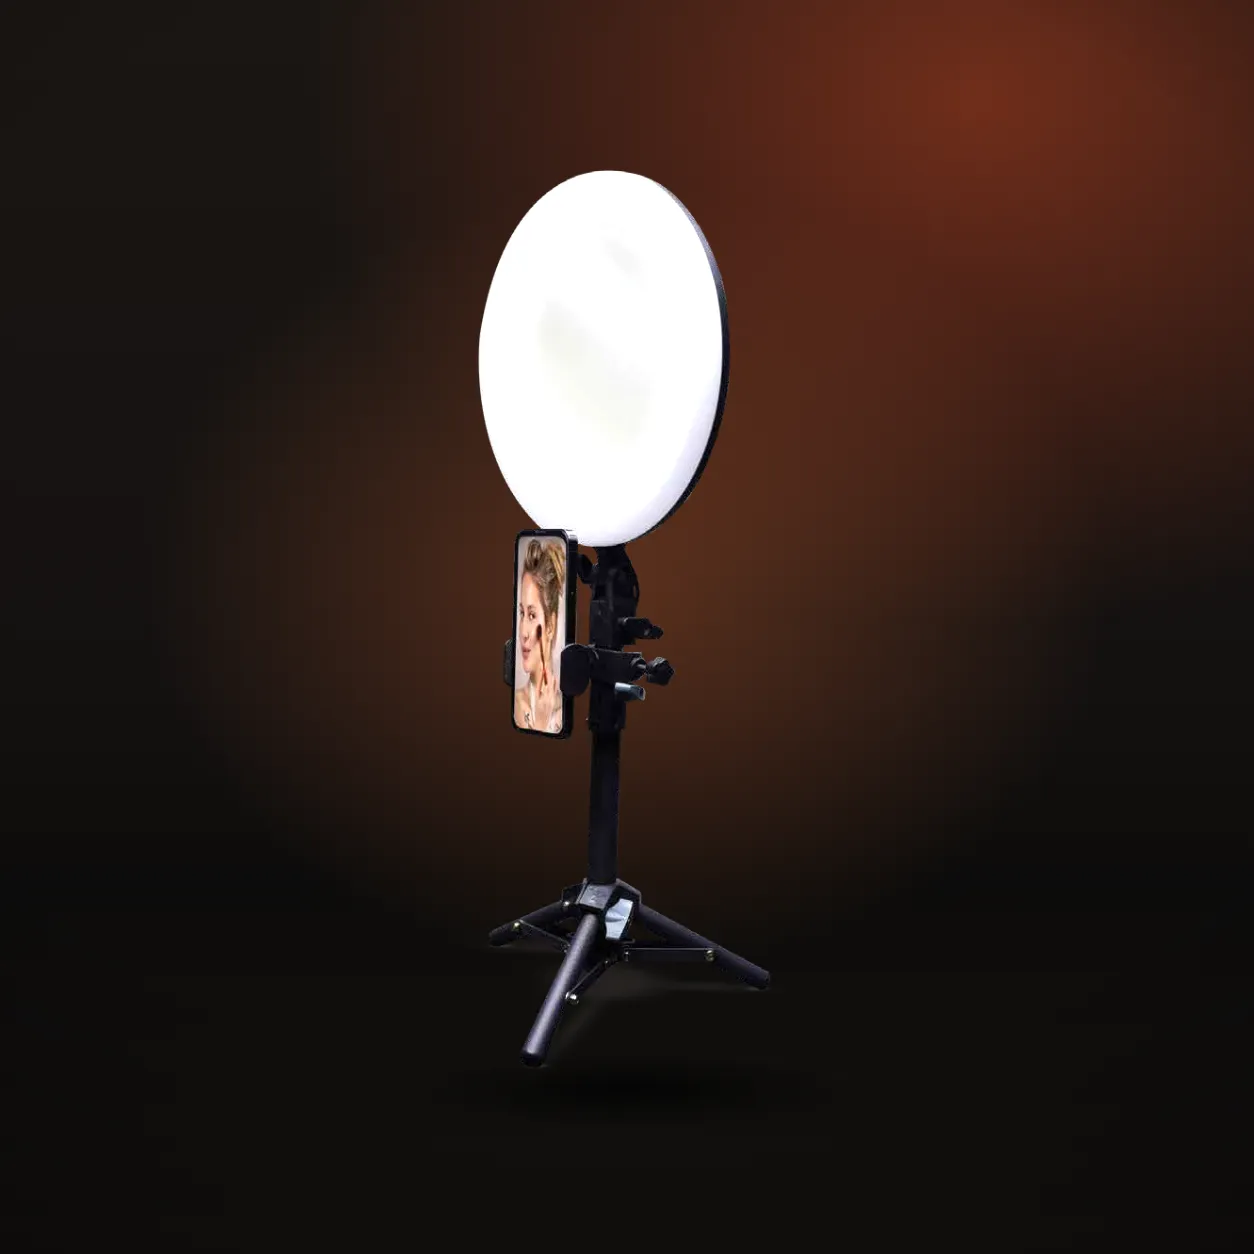
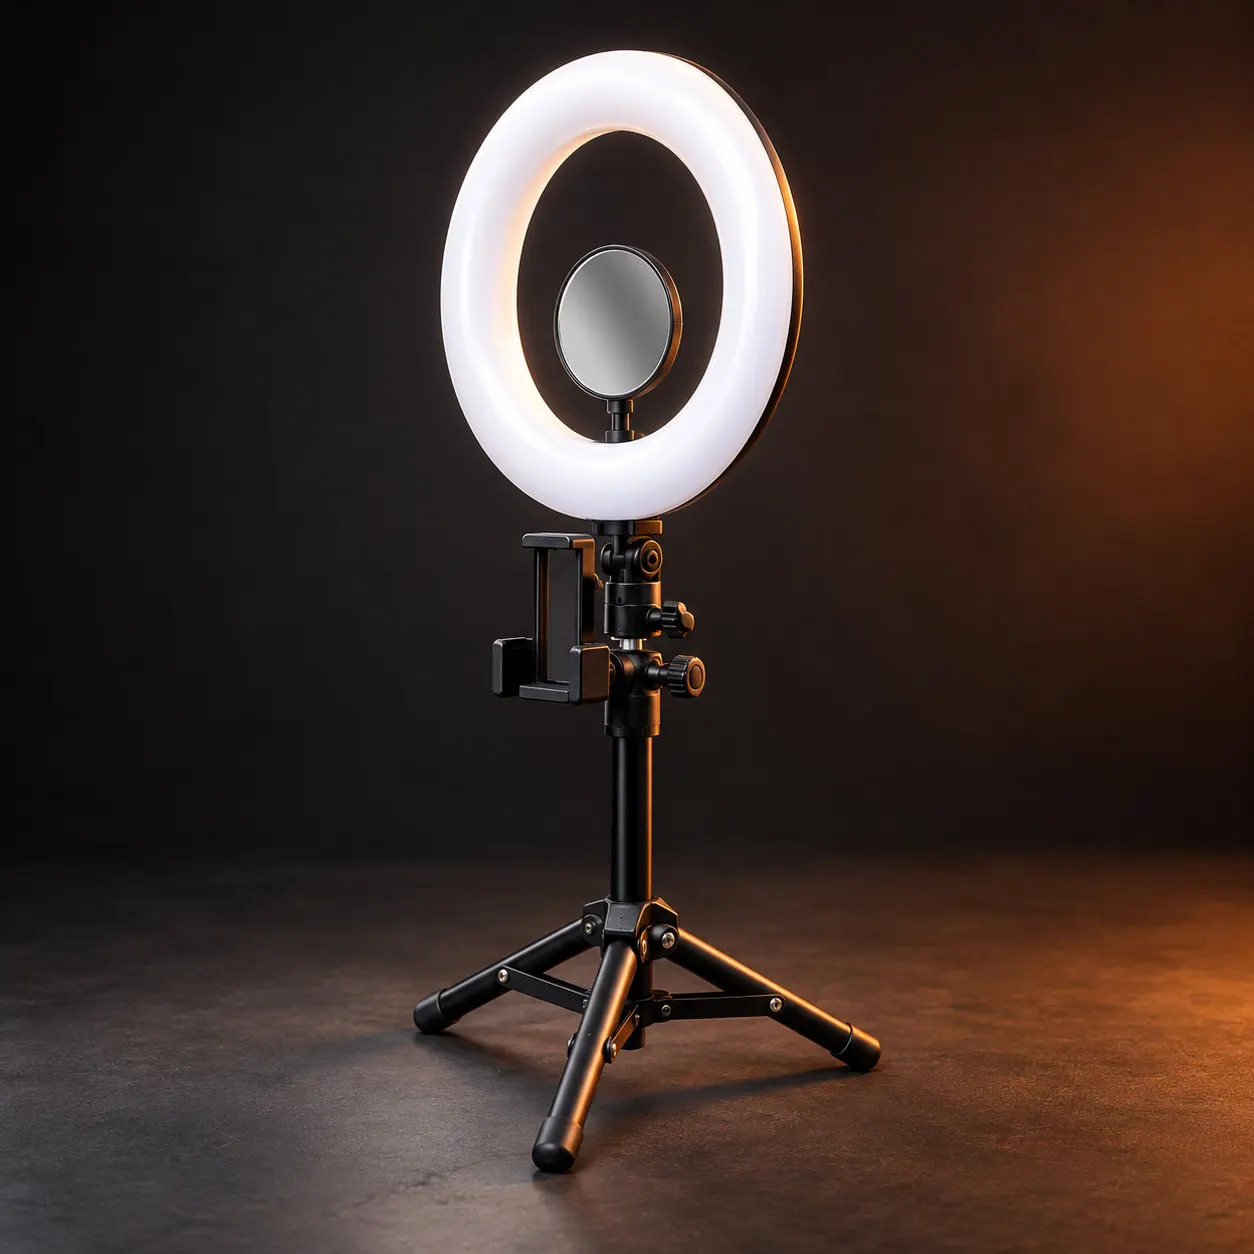
Fotos de rubros nuevas: serie oscura para mayorista y durazno para minorista
Las diez categorías usan la misma serie de producto con la estética de cada sección. Minorista toma archivos propios (cat-*) para no pisar las fotos de Instagram y de las fichas; Celulares pasa a 1254 × 1254 como el resto.

diff --git a/minorista.html b/minorista.html
@@ -59,16 +59,16 @@
 
     <section class="m-cats" id="categorias" aria-label="Categorías">
       <div class="m-cat-grid" data-stagger>
-        <a class="m-cat reveal" href="https://ig.me/m/htgaccesorios" data-rubro="cargadores"><img src="assets/minorista/cargadores.webp" srcset="assets/minorista/cargadores-600.webp 600w, assets/minorista/cargadores.webp 1200w" sizes="(max-width:700px) 46vw, 19vw" alt="" width="1200" height="1200"><span class="m-cat-label">Cables<br>y cargadores <b class="m-circle" aria-hidden="true">→</b></span></a>
-        <a class="m-cat reveal" href="https://ig.me/m/htgaccesorios" data-rubro="audio"><img src="assets/minorista/auriculares.webp" srcset="assets/minorista/auriculares-600.webp 600w, assets/minorista/auriculares.webp 1200w" sizes="(max-width:700px) 46vw, 19vw" alt="" width="1200" height="1200"><span class="m-cat-label">Audio <b class="m-circle" aria-hidden="true">→</b></span></a>
-        <a class="m-cat reveal" href="https://ig.me/m/htgaccesorios" data-rubro="fundas"><img src="assets/minorista/estanterias-fundas.webp" srcset="assets/minorista/estanterias-fundas-600.webp 600w, assets/minorista/estanterias-fundas.webp 1200w" sizes="(max-width:700px) 46vw, 19vw" alt="" width="1200" height="1200"><span class="m-cat-label">Fundas <b class="m-circle" aria-hidden="true">→</b></span></a>
-        <a class="m-cat reveal" href="https://ig.me/m/htgaccesorios" data-rubro="pantalla"><img src="assets/minorista/pantalla.webp" srcset="assets/minorista/pantalla-600.webp 600w, assets/minorista/pantalla.webp 1200w" sizes="(max-width:700px) 46vw, 19vw" alt="" width="1200" height="1200"><span class="m-cat-label">Protección<br>de pantalla <b class="m-circle" aria-hidden="true">→</b></span></a>
-        <a class="m-cat reveal" href="https://ig.me/m/htgaccesorios" data-rubro="soportes"><img src="assets/minorista/soportes.webp" srcset="assets/minorista/soportes-600.webp 600w, assets/minorista/soportes.webp 1200w" sizes="(max-width:700px) 46vw, 19vw" alt="" width="1200" height="1200"><span class="m-cat-label">Soportes <b class="m-circle" aria-hidden="true">→</b></span></a>
-        <a class="m-cat reveal" href="https://ig.me/m/htgaccesorios" data-rubro="creadores"><img src="assets/minorista/creadores.webp" srcset="assets/minorista/creadores-600.webp 600w, assets/minorista/creadores.webp 1200w" sizes="(max-width:700px) 46vw, 19vw" alt="" width="1200" height="1200"><span class="m-cat-label">Creadores<br>de contenido <b class="m-circle" aria-hidden="true">→</b></span></a>
-        <a class="m-cat reveal" href="https://ig.me/m/htgaccesorios" data-rubro="gaming"><img src="assets/minorista/gaming-joystick.webp" srcset="assets/minorista/gaming-joystick-600.webp 600w, assets/minorista/gaming-joystick.webp 1200w" sizes="(max-width:700px) 46vw, 19vw" alt="" width="1200" height="1200"><span class="m-cat-label">Gaming <b class="m-circle" aria-hidden="true">→</b></span></a>
-        <a class="m-cat reveal" href="https://ig.me/m/htgaccesorios" data-rubro="oficina"><img src="assets/minorista/oficina.webp" srcset="assets/minorista/oficina-600.webp 600w, assets/minorista/oficina.webp 1200w" sizes="(max-width:700px) 46vw, 19vw" alt="" width="1200" height="1200"><span class="m-cat-label">Computación<br>y oficina <b class="m-circle" aria-hidden="true">→</b></span></a>
-        <a class="m-cat reveal" href="https://ig.me/m/htgaccesorios" data-rubro="smartwatch"><img src="assets/minorista/smartwatch.webp" srcset="assets/minorista/smartwatch-600.webp 600w, assets/minorista/smartwatch.webp 1200w" sizes="(max-width:700px) 46vw, 19vw" alt="" width="1200" height="1200"><span class="m-cat-label">Smartwatch<br>y wearables <b class="m-circle" aria-hidden="true">→</b></span></a>
-        <a class="m-cat reveal" href="https://ig.me/m/htgaccesorios" data-rubro="celulares"><img src="assets/minorista/fundas-en-mano.webp" srcset="assets/minorista/fundas-en-mano-600.webp 600w, assets/minorista/fundas-en-mano.webp 1200w" sizes="(max-width:700px) 46vw, 19vw" alt="" width="1200" height="1200"><span class="m-cat-label">Celulares<br>y tablets <b class="m-circle" aria-hidden="true">→</b></span></a>
+        <a class="m-cat reveal" href="https://ig.me/m/htgaccesorios" data-rubro="cargadores"><img src="assets/minorista/cat-cargadores.webp" srcset="assets/minorista/cat-cargadores-600.webp 600w, assets/minorista/cat-cargadores.webp 1200w" sizes="(max-width:700px) 46vw, 19vw" alt="" width="1200" height="1200"><span class="m-cat-label">Cables<br>y cargadores <b class="m-circle" aria-hidden="true">→</b></span></a>
+        <a class="m-cat reveal" href="https://ig.me/m/htgaccesorios" data-rubro="audio"><img src="assets/minorista/cat-audio.webp" srcset="assets/minorista/cat-audio-600.webp 600w, assets/minorista/cat-audio.webp 1200w" sizes="(max-width:700px) 46vw, 19vw" alt="" width="1200" height="1200"><span class="m-cat-label">Audio <b class="m-circle" aria-hidden="true">→</b></span></a>
+        <a class="m-cat reveal" href="https://ig.me/m/htgaccesorios" data-rubro="fundas"><img src="assets/minorista/cat-fundas.webp" srcset="assets/minorista/cat-fundas-600.webp 600w, assets/minorista/cat-fundas.webp 1200w" sizes="(max-width:700px) 46vw, 19vw" alt="" width="1200" height="1200"><span class="m-cat-label">Fundas <b class="m-circle" aria-hidden="true">→</b></span></a>
+        <a class="m-cat reveal" href="https://ig.me/m/htgaccesorios" data-rubro="pantalla"><img src="assets/minorista/cat-pantalla.webp" srcset="assets/minorista/cat-pantalla-600.webp 600w, assets/minorista/cat-pantalla.webp 1200w" sizes="(max-width:700px) 46vw, 19vw" alt="" width="1200" height="1200"><span class="m-cat-label">Protección<br>de pantalla <b class="m-circle" aria-hidden="true">→</b></span></a>
+        <a class="m-cat reveal" href="https://ig.me/m/htgaccesorios" data-rubro="soportes"><img src="assets/minorista/cat-soportes.webp" srcset="assets/minorista/cat-soportes-600.webp 600w, assets/minorista/cat-soportes.webp 1200w" sizes="(max-width:700px) 46vw, 19vw" alt="" width="1200" height="1200"><span class="m-cat-label">Soportes <b class="m-circle" aria-hidden="true">→</b></span></a>
+        <a class="m-cat reveal" href="https://ig.me/m/htgaccesorios" data-rubro="creadores"><img src="assets/minorista/cat-creadores.webp" srcset="assets/minorista/cat-creadores-600.webp 600w, assets/minorista/cat-creadores.webp 1200w" sizes="(max-width:700px) 46vw, 19vw" alt="" width="1200" height="1200"><span class="m-cat-label">Creadores<br>de contenido <b class="m-circle" aria-hidden="true">→</b></span></a>
+        <a class="m-cat reveal" href="https://ig.me/m/htgaccesorios" data-rubro="gaming"><img src="assets/minorista/cat-gaming.webp" srcset="assets/minorista/cat-gaming-600.webp 600w, assets/minorista/cat-gaming.webp 1200w" sizes="(max-width:700px) 46vw, 19vw" alt="" width="1200" height="1200"><span class="m-cat-label">Gaming <b class="m-circle" aria-hidden="true">→</b></span></a>
+        <a class="m-cat reveal" href="https://ig.me/m/htgaccesorios" data-rubro="oficina"><img src="assets/minorista/cat-oficina.webp" srcset="assets/minorista/cat-oficina-600.webp 600w, assets/minorista/cat-oficina.webp 1200w" sizes="(max-width:700px) 46vw, 19vw" alt="" width="1200" height="1200"><span class="m-cat-label">Computación<br>y oficina <b class="m-circle" aria-hidden="true">→</b></span></a>
+        <a class="m-cat reveal" href="https://ig.me/m/htgaccesorios" data-rubro="smartwatch"><img src="assets/minorista/cat-smartwatch.webp" srcset="assets/minorista/cat-smartwatch-600.webp 600w, assets/minorista/cat-smartwatch.webp 1200w" sizes="(max-width:700px) 46vw, 19vw" alt="" width="1200" height="1200"><span class="m-cat-label">Smartwatch<br>y wearables <b class="m-circle" aria-hidden="true">→</b></span></a>
+        <a class="m-cat reveal" href="https://ig.me/m/htgaccesorios" data-rubro="celulares"><img src="assets/minorista/cat-celulares.webp" srcset="assets/minorista/cat-celulares-600.webp 600w, assets/minorista/cat-celulares.webp 1200w" sizes="(max-width:700px) 46vw, 19vw" alt="" width="1200" height="1200"><span class="m-cat-label">Celulares<br>y tablets <b class="m-circle" aria-hidden="true">→</b></span></a>
       </div>
     </section>
 

diff --git a/index.html b/index.html
@@ -44,16 +44,16 @@
     <section class="categories-section" id="categorias" aria-labelledby="cat-title"><div class="container">
       <div class="section-heading"><h2 id="cat-title">CATEGORÍAS<br>PRINCIPALES</h2><a href="catalogo.html">Ver todas las categorías <span aria-hidden="true">→</span></a></div>
       <div class="categories-grid" data-stagger>
-        <a class="category reveal" href="catalogo.html?categoria=cargadores"><img src="assets/categoria-cargadores.webp" srcset="assets/categoria-cargadores-600.webp 600w, assets/categoria-cargadores.webp 1254w" sizes="(max-width:700px) 46vw, 19vw" alt="Cargador blanco y cable negro trenzado" width="1254" height="1254"><span>Cables<br>y cargadores <b aria-hidden="true">→</b></span></a>
-        <a class="category reveal" href="catalogo.html?categoria=audio"><img src="assets/categoria-audio.webp" srcset="assets/categoria-audio-600.webp 600w, assets/categoria-audio.webp 1254w" sizes="(max-width:700px) 46vw, 19vw" alt="Auriculares negros SOUL" width="1254" height="1254"><span>Audio <b aria-hidden="true">→</b></span></a>
-        <a class="category reveal" href="catalogo.html?categoria=fundas"><img src="assets/categoria-fundas.webp" srcset="assets/categoria-fundas-600.webp 600w, assets/categoria-fundas.webp 1254w" sizes="(max-width:700px) 46vw, 19vw" alt="Fundas para teléfonos exhibidas en el local" width="1254" height="1254"><span>Fundas <b aria-hidden="true">→</b></span></a>
-        <a class="category reveal" href="catalogo.html?categoria=pantalla"><img src="assets/categoria-pantalla.webp" srcset="assets/categoria-pantalla-600.webp 600w, assets/categoria-pantalla.webp 1254w" sizes="(max-width:700px) 46vw, 19vw" alt="Vidrio templado sobre la pantalla de un teléfono" width="1254" height="1254"><span>Protección<br>de pantalla <b aria-hidden="true">→</b></span></a>
+        <a class="category reveal" href="catalogo.html?categoria=cargadores"><img src="assets/categoria-cargadores.webp" srcset="assets/categoria-cargadores-600.webp 600w, assets/categoria-cargadores.webp 1254w" sizes="(max-width:700px) 46vw, 19vw" alt="Cargador y cable blancos" width="1254" height="1254"><span>Cables<br>y cargadores <b aria-hidden="true">→</b></span></a>
+        <a class="category reveal" href="catalogo.html?categoria=audio"><img src="assets/categoria-audio.webp" srcset="assets/categoria-audio-600.webp 600w, assets/categoria-audio.webp 1254w" sizes="(max-width:700px) 46vw, 19vw" alt="Auriculares vincha negros" width="1254" height="1254"><span>Audio <b aria-hidden="true">→</b></span></a>
+        <a class="category reveal" href="catalogo.html?categoria=fundas"><img src="assets/categoria-fundas.webp" srcset="assets/categoria-fundas-600.webp 600w, assets/categoria-fundas.webp 1254w" sizes="(max-width:700px) 46vw, 19vw" alt="Fundas de silicona y transparente" width="1254" height="1254"><span>Fundas <b aria-hidden="true">→</b></span></a>
+        <a class="category reveal" href="catalogo.html?categoria=pantalla"><img src="assets/categoria-pantalla.webp" srcset="assets/categoria-pantalla-600.webp 600w, assets/categoria-pantalla.webp 1254w" sizes="(max-width:700px) 46vw, 19vw" alt="Vidrio templado junto a un teléfono" width="1254" height="1254"><span>Protección<br>de pantalla <b aria-hidden="true">→</b></span></a>
         <a class="category reveal" href="catalogo.html?categoria=soportes"><img src="assets/categoria-soportes.webp" srcset="assets/categoria-soportes-600.webp 600w, assets/categoria-soportes.webp 1254w" sizes="(max-width:700px) 46vw, 19vw" alt="Soporte de auto con ventosa" width="1254" height="1254"><span>Soportes <b aria-hidden="true">→</b></span></a>
         <a class="category reveal" href="catalogo.html?categoria=creadores"><img src="assets/categoria-creadores.webp" srcset="assets/categoria-creadores-600.webp 600w, assets/categoria-creadores.webp 1254w" sizes="(max-width:700px) 46vw, 19vw" alt="Aro de luz con trípode y soporte para teléfono" width="1254" height="1254"><span>Creadores<br>de contenido <b aria-hidden="true">→</b></span></a>
         <a class="category reveal" href="catalogo.html?categoria=gaming"><img src="assets/categoria-gaming.webp" srcset="assets/categoria-gaming-600.webp 600w, assets/categoria-gaming.webp 1254w" sizes="(max-width:700px) 46vw, 19vw" alt="Control de videojuegos negro" width="1254" height="1254"><span>Gaming <b aria-hidden="true">→</b></span></a>
-        <a class="category reveal" href="catalogo.html?categoria=oficina"><img src="assets/categoria-oficina.webp" srcset="assets/categoria-oficina-600.webp 600w, assets/categoria-oficina.webp 1254w" sizes="(max-width:700px) 46vw, 19vw" alt="Teclado y mouse negros" width="1254" height="1254"><span>Computación<br>y oficina <b aria-hidden="true">→</b></span></a>
+        <a class="category reveal" href="catalogo.html?categoria=oficina"><img src="assets/categoria-oficina.webp" srcset="assets/categoria-oficina-600.webp 600w, assets/categoria-oficina.webp 1254w" sizes="(max-width:700px) 46vw, 19vw" alt="Teclado y mouse inalámbricos" width="1254" height="1254"><span>Computación<br>y oficina <b aria-hidden="true">→</b></span></a>
         <a class="category reveal" href="catalogo.html?categoria=smartwatch"><img src="assets/categoria-smartwatch.webp" srcset="assets/categoria-smartwatch-600.webp 600w, assets/categoria-smartwatch.webp 1254w" sizes="(max-width:700px) 46vw, 19vw" alt="Reloj inteligente negro" width="1254" height="1254"><span>Smartwatch<br>y wearables <b aria-hidden="true">→</b></span></a>
-        <a class="category reveal" href="catalogo.html?categoria=celulares"><img src="assets/categoria-celulares.webp" srcset="assets/categoria-celulares-600.webp 600w, assets/categoria-celulares.webp 1200w" sizes="(max-width:700px) 46vw, 19vw" alt="Teléfonos móviles vistos desde atrás" width="1200" height="1020"><span>Celulares<br>y tablets <b aria-hidden="true">→</b></span></a>
+        <a class="category reveal" href="catalogo.html?categoria=celulares"><img src="assets/categoria-celulares.webp" srcset="assets/categoria-celulares-600.webp 600w, assets/categoria-celulares.webp 1254w" sizes="(max-width:700px) 46vw, 19vw" alt="Celular y tablet" width="1254" height="1254"><span>Celulares<br>y tablets <b aria-hidden="true">→</b></span></a>
       </div>
     </div></section>
 

diff --git a/site.js b/site.js
@@ -194,16 +194,16 @@
   const dlg = $('#rubro-dialog');
   if (dlg) {
     const RUBROS = {
-      cargadores: { t: 'Cables y cargadores', img: ['cargadores', 'cables'], txt: 'Cargadores rápidos, cables USB-C y Lightning, cargadores de auto, power banks, bases de carga inalámbrica y adaptadores.', kw: 'cables cable cargador cargadores usb tipo c lightning auto power bank portatil inalambrico base adaptador adaptadores hdmi' },
-      audio: { t: 'Audio', img: ['auriculares', 'parlantes'], txt: 'Auriculares, TWS, parlantes, manos libres y micrófonos de las marcas que trabajamos, SOUL entre ellas.', kw: 'audio auriculares auricular tws parlante parlantes bluetooth manos libres sonido microfono microfonos' },
-      fundas: { t: 'Fundas', img: ['estanterias-fundas', 'fundas-en-mano'], txt: 'Fundas para los modelos más buscados: silicona, antishock, magnéticas y flip covers.', kw: 'fundas funda carcasa carcasas silicona antishock magnetica magneticas flip cover' },
-      pantalla: { t: 'Protección de pantalla', img: ['pantalla'], txt: 'Vidrios templados, protectores de hidrogel y protectores de cámara para cada modelo.', kw: 'vidrio vidrios templado templados hidrogel hydrogel protector protectores pantalla camara lente' },
-      soportes: { t: 'Soportes', img: ['soportes'], txt: 'Soportes para auto, bici y moto, escritorio, notebook y monitor.', kw: 'soporte soportes auto bici moto escritorio tripode notebook monitor holder' },
-      creadores: { t: 'Creadores de contenido', img: ['creadores', 'kit-contenido'], txt: 'Aros de luz, luces LED, trípodes y micrófonos para grabar y hacer streaming.', kw: 'creadores contenido aro luz ring led selfie tripode streaming vlog' },
-      gaming: { t: 'Gaming', img: ['gaming-joystick', 'gaming-kit'], txt: 'Joysticks, teclados, mouses, auriculares y sillas gamer.', kw: 'gaming gamer joystick joysticks control consola juegos silla sillas' },
-      oficina: { t: 'Computación y oficina', img: ['oficina'], txt: 'Teclados, mouses, combos, webcams y mochilas para la compu y la oficina.', kw: 'computacion oficina office pc teclado teclados mouse mouses combo webcam mochila mochilas notebook' },
-      smartwatch: { t: 'Smartwatch y wearables', img: ['smartwatch'], txt: 'Relojes inteligentes, smart bands, smart rings y mallas para todos los días.', kw: 'smartwatch smart watch reloj relojes malla mallas wearables smartband smart ring' },
-      celulares: { t: 'Celulares y tablets', img: ['fundas-en-mano', 'interior'], txt: 'Equipos y accesorios para celulares y tablets. Consultá modelos y disponibilidad en cada local.', kw: 'celulares celular tablets tablet telefonos telefono iphone equipos' },
+      cargadores: { t: 'Cables y cargadores', img: ['cat-cargadores', 'cables'], txt: 'Cargadores rápidos, cables USB-C y Lightning, cargadores de auto, power banks, bases de carga inalámbrica y adaptadores.', kw: 'cables cable cargador cargadores usb tipo c lightning auto power bank portatil inalambrico base adaptador adaptadores hdmi' },
+      audio: { t: 'Audio', img: ['cat-audio', 'parlantes'], txt: 'Auriculares, TWS, parlantes, manos libres y micrófonos de las marcas que trabajamos, SOUL entre ellas.', kw: 'audio auriculares auricular tws parlante parlantes bluetooth manos libres sonido microfono microfonos' },
+      fundas: { t: 'Fundas', img: ['cat-fundas', 'estanterias-fundas'], txt: 'Fundas para los modelos más buscados: silicona, antishock, magnéticas y flip covers.', kw: 'fundas funda carcasa carcasas silicona antishock magnetica magneticas flip cover' },
+      pantalla: { t: 'Protección de pantalla', img: ['cat-pantalla'], txt: 'Vidrios templados, protectores de hidrogel y protectores de cámara para cada modelo.', kw: 'vidrio vidrios templado templados hidrogel hydrogel protector protectores pantalla camara lente' },
+      soportes: { t: 'Soportes', img: ['cat-soportes'], txt: 'Soportes para auto, bici y moto, escritorio, notebook y monitor.', kw: 'soporte soportes auto bici moto escritorio tripode notebook monitor holder' },
+      creadores: { t: 'Creadores de contenido', img: ['cat-creadores', 'kit-contenido'], txt: 'Aros de luz, luces LED, trípodes y micrófonos para grabar y hacer streaming.', kw: 'creadores contenido aro luz ring led selfie tripode streaming vlog' },
+      gaming: { t: 'Gaming', img: ['cat-gaming', 'gaming-kit'], txt: 'Joysticks, teclados, mouses, auriculares y sillas gamer.', kw: 'gaming gamer joystick joysticks control consola juegos silla sillas' },
+      oficina: { t: 'Computación y oficina', img: ['cat-oficina'], txt: 'Teclados, mouses, combos, webcams y mochilas para la compu y la oficina.', kw: 'computacion oficina office pc teclado teclados mouse mouses combo webcam mochila mochilas notebook' },
+      smartwatch: { t: 'Smartwatch y wearables', img: ['cat-smartwatch'], txt: 'Relojes inteligentes, smart bands, smart rings y mallas para todos los días.', kw: 'smartwatch smart watch reloj relojes malla mallas wearables smartband smart ring' },
+      celulares: { t: 'Celulares y tablets', img: ['cat-celulares', 'interior'], txt: 'Equipos y accesorios para celulares y tablets. Consultá modelos y disponibilidad en cada local.', kw: 'celulares celular tablets tablet telefonos telefono iphone equipos' },
     };
     const normalize = s => s.normalize('NFD').replace(/[̀-ͯ]/g, '').toLowerCase().trim();
     const consult = $('#rubro-consult'), hint = $('#rubro-hint');

diff --git a/catalogo.html b/catalogo.html
@@ -11,5 +11,5 @@
 <a class="catalog-card reveal" data-category="gaming gamer consolas consola controles control joystick juegos sillas silla" href="alta.html?interes=gaming"><img src="assets/categoria-gaming.webp" alt="Control de videojuegos" width="1254" height="1254"><div><h2>GAMING</h2><span aria-hidden="true">→</span></div></a>
 <a class="catalog-card reveal" data-category="computación computacion oficina office pc teclado teclados mouse combo webcam mochila mochilas notebook seguridad" href="alta.html?interes=oficina"><img src="assets/categoria-oficina.webp" alt="Teclado y mouse" width="1254" height="1254"><div><h2>COMPUTACIÓN Y OFICINA</h2><span aria-hidden="true">→</span></div></a>
 <a class="catalog-card reveal" data-category="smartwatch smart watch wearables relojes reloj smartband smart ring malla" href="alta.html?interes=smartwatch"><img src="assets/categoria-smartwatch.webp" alt="Reloj inteligente" width="1254" height="1254"><div><h2>SMARTWATCH Y WEARABLES</h2><span aria-hidden="true">→</span></div></a>
-<a class="catalog-card reveal" data-category="celulares tablets teléfonos telefonos smartphone iphone android equipos" href="alta.html?interes=celulares"><img src="assets/categoria-celulares.webp" alt="Teléfonos móviles" width="1200" height="1020"><div><h2>CELULARES Y TABLETS</h2><span aria-hidden="true">→</span></div></a></div><div class="catalog-empty" id="catalog-empty" hidden><p><b>No encontramos “<span id="catalog-empty-term"></span>” entre los rubros.</b></p><p>Probá con “cables”, “audio” o “gaming”, o preguntanos por ese producto en <a href="https://ig.me/m/htgaccesorios" target="_blank" rel="noopener">mensaje directo de Instagram</a>.</p></div><div class="catalog-note"><p><b>Precios y stock mayorista:</b> esta versión visual todavía no tiene conexión al sistema comercial. Podés <a href="alta.html"><u>solicitar el alta</u></a> y dejar tu rubro de interés.</p></div></section></main>
+<a class="catalog-card reveal" data-category="celulares tablets teléfonos telefonos smartphone iphone android equipos" href="alta.html?interes=celulares"><img src="assets/categoria-celulares.webp" alt="Celular y tablet" width="1254" height="1254"><div><h2>CELULARES Y TABLETS</h2><span aria-hidden="true">→</span></div></a></div><div class="catalog-empty" id="catalog-empty" hidden><p><b>No encontramos “<span id="catalog-empty-term"></span>” entre los rubros.</b></p><p>Probá con “cables”, “audio” o “gaming”, o preguntanos por ese producto en <a href="https://ig.me/m/htgaccesorios" target="_blank" rel="noopener">mensaje directo de Instagram</a>.</p></div><div class="catalog-note"><p><b>Precios y stock mayorista:</b> esta versión visual todavía no tiene conexión al sistema comercial. Podés <a href="alta.html"><u>solicitar el alta</u></a> y dejar tu rubro de interés.</p></div></section></main>
 <footer class="site-footer"><div class="container footer-grid"><div class="footer-brand"><a class="identity" href="index.html" aria-label="HTG Accesorios, inicio"><img class="identity-logo" src="assets/htg-logo.svg" alt="" width="160" height="160"><span class="identity-side"><b>ACCESORIOS</b><small>MONTE GRANDE · BS. AS.</small></span></a><p>Accesorios, tecnología y gaming.<br>Para locales, técnicos y revendedores.</p></div><div><h3>Comprar</h3><a href="minorista.html">Compra minorista</a><a href="catalogo.html">Todas las categorías</a><a href="index.html#marcas">Marcas</a></div><div><h3>Empresa</h3><a href="index.html#locales">Locales</a><a href="index.html#como-comprar">Cómo comprar</a></div><div><h3>Contacto comercial</h3><a href="alta.html">Solicitar alta mayorista →</a><a href="https://www.instagram.com/htgaccesorios/" target="_blank" rel="noopener">Instagram @htgaccesorios</a></div></div><div class="container footer-bottom"><span>© 2026 HTG Accesorios.</span><span>Diseño TRAMA</span></div></footer></body></html>
